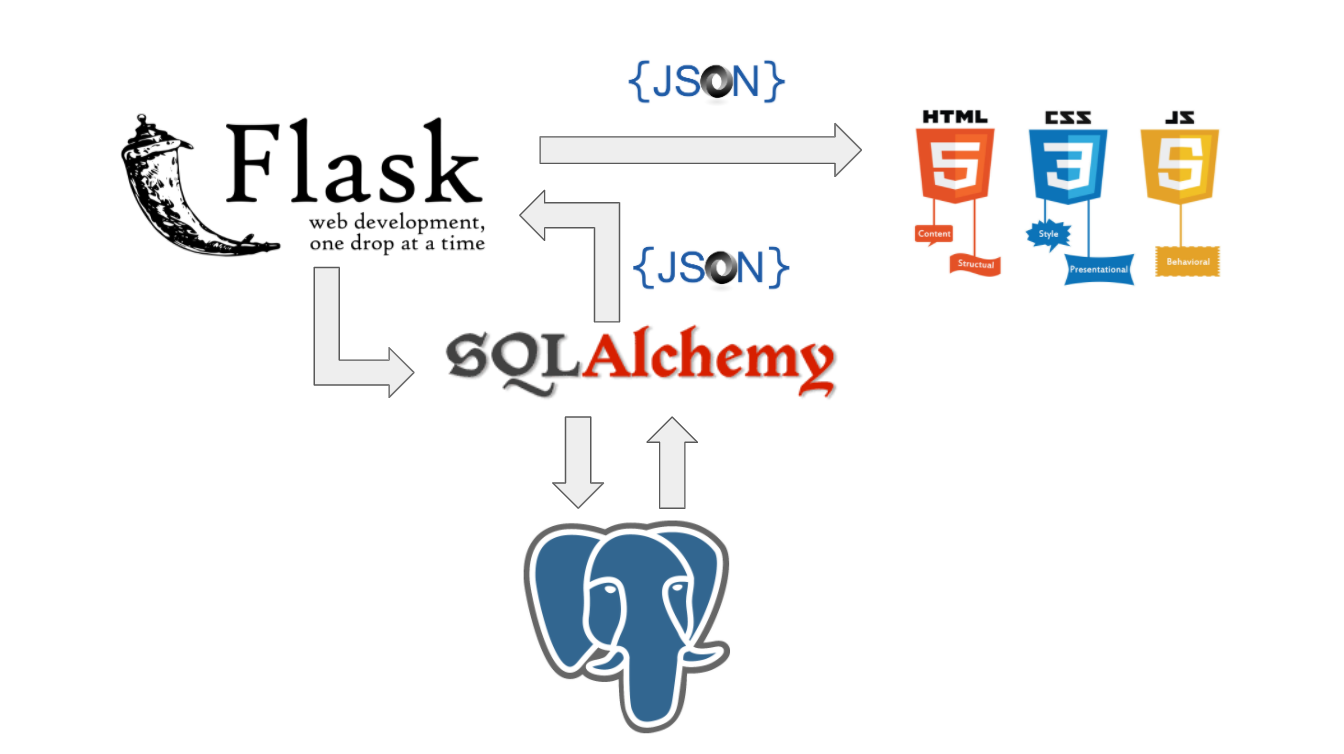
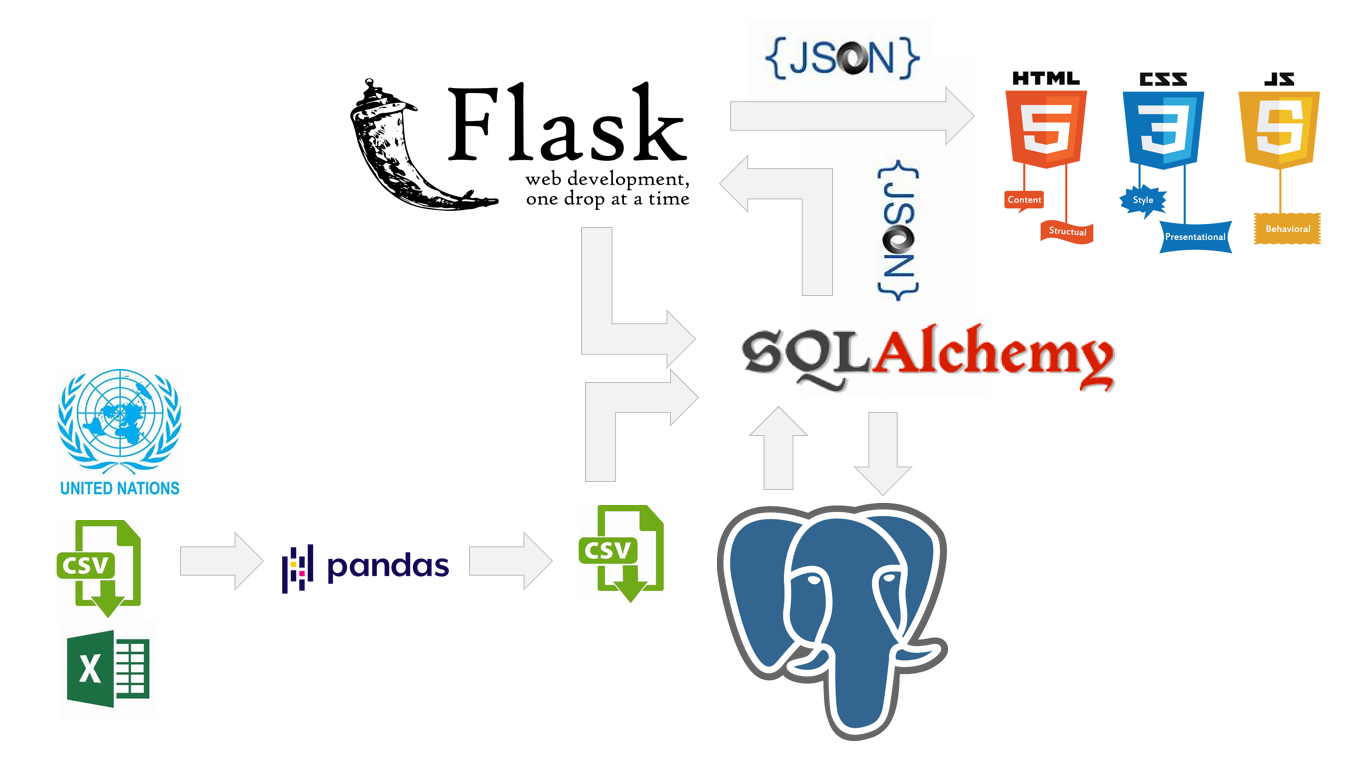
Update for new tech page

diff --git a/03_dashboard/templates/index2.html b/03_dashboard/templates/index2.html
@@ -63,32 +63,43 @@
     <div class="container pt-3 my-3">
         <div class="row">
             <div class="col-md-12">
-                <h2 class="header">Click to See Our Technologies</h2>
+            <h1 class="header">Click to see our technology and how we made it work</h1>
 
             </div>
         </div>
 
         <div class="row">
             <div class="col-md-12">
-                <img src="..//images/OurTech.png" class="img-fluid" usemap="#ourtech">
+                <img src="../images/OurTech.png" class="img-fluid" usemap="#ourtech">
                 <map name="ourtech">
-                    <area shape="rect" coords="496,258,119,108" id="Flask" onclick="changeImage(this,'Flask')">
-                    <area shape="rect" coords="625,58,791,104" id="JSON" onclick="changeImage(this,'JSON')">
-                    <area shape="rect" coords="632,244,798,290" id="JSON2" onclick="changeImage(this,'JSON')">
-                    <area shape="rect" coords="841,400,445,317" id="SQLAlchemy"
+                    <area shape="rect" coords="352,71,696,210" id="Flask" onclick="changeImage(this,'Flask')">
+                    <area shape="rect" coords="768,31,923,82" id="JSON" onclick="changeImage(this,'JSON')">
+                    <area shape="rect" coords="877,159,919,300" id="JSON2" onclick="changeImage(this,'JSON')">
+                    <area shape="rect" coords="741,327,1116,395" id="SQLAlchemy"
                         onclick="changeImage(this,'SQLAlchemy')">
-                    <area shape="rect" coords="1228,284,907,103" id="Html" onclick="changeImage(this,'HTML')">
-                    <area shape="rect" coords="516,524,736,737" id="Postgresql" onclick="changeImage(this,'PostGreSQL')">
-                    <area shape="poly" coords="541,138,834,135,836,121,860,148,836,173,832,165,543,166" id="Arrow1"
+                    <area shape="rect" coords="1004,68,1319,252" id="HTML" onclick="changeImage(this,'HTML')">
+                    <area shape="rect" coords="716,504,953,743" id="PostgreSQL" onclick="changeImage(this,'PostgreSQL')">
+                    <area shape="rect" coords="579,503,663,603" id="CSV1" onclick="changeImage(this,'CSV')">
+                    <area shape="rect" coords="57,520,143,616" id="CSV2" onclick="changeImage(this,'CSV')">
+                    <area shape="rect" coords="63,632,151,707" id="Excel" onclick="changeImage(this,'Excel')">
+                    <area shape="rect" coords="273,539,450,594" id="Pandas" onclick="changeImage(this,'Pandas')">
+                    <area shape="rect" coords="55,366,183,494" id="UNats" onclick="changeImage(this,'UNats')">
+                    <area shape="poly" coords="732,100,945,101,944,86,972,116,948,143,942,129,731,132" id="Arrow1"
                         onclick="changeImage(this, 'Arrow1')">
-                    <area shape="poly" coords="521,215,544,191,547,201,618,203,620,323,593,319,595,227,548,228,543,241" id="Arrow2"
+                    <area shape="poly" coords="720,184,747,155,750,169,831,169,831,294,800,294,801,199,749,201,746,211" id="Arrow2"
                         onclick="changeImage(this, 'Arrow2')">
-                    <area shape="poly" coords="646,443,674,416,698,443,687,444,684,507,658,508,660,442" id="Arrow3"
+                    <area shape="poly" coords="867,412,895,411,896,464,912,467,883,494,853,468,867,464" id="Arrow3"
                         onclick="changeImage(this, 'Arrow3')">
-                    <area shape="poly" coords="581,509,553,482,566,483,567,416,589,413,592,481,604,483" id="Arrow4"
+                    <area shape="poly" coords="777,407,805,435,795,432,792,490,762,490,765,435,750,436" id="Arrow4"
                         onclick="changeImage(this, 'Arrow4')">
-                    <area shape="poly" coords="411,373,391,398,388,384,314,384,315,268,339,268,340,359,385,359,389,346" id="Arrow5"
+                    <area shape="poly" coords="701,396,672,424,669,413,615,413,616,482,585,480,586,382,672,382,668,366" id="Arrow5"
                         onclick="changeImage(this, 'Arrow5')">
+                        <area shape="poly" coords="550,561,525,532,525,545,472,544,469,574,523,575,524,587" id="Arrow6"
+                        onclick="changeImage(this, 'Arrow6')">
+                        <area shape="poly" coords="262,563,236,532,236,543,183,549,178,575,234,576,234,588" id="Arrow7"
+                        onclick="changeImage(this, 'Arrow7')">
+                        <area shape="poly" coords="697,337,670,360,669,354,583,355,583,231,610,231,615,323,663,322,668,307" id="Arrow8"
+                        onclick="changeImage(this, 'Arrow8')">
                 </map>
             </div>
         </div>

diff --git a/03_dashboard/static/js/tech.js b/03_dashboard/static/js/tech.js
@@ -4,7 +4,7 @@ function changeImage(elmnt, value) {
     console.log(value);
     a = value;
     if (a === "Flask") {
-        swal("Flask is a minimalistic python framework for building web apps. It makes development faster by offering code for all sorts of processes like database interaction or file activity")
+        swal("Flask is a minimalistic python framework for building web apps (a light weight server). It makes development faster by offering code for all sorts of processes like database interaction or file activity")
     } else if (a === "JSON") {
         swal("JSON Stands for JavaScript Object Notation.  It is a lightweight format for storing and transporting data, often used when data is sent from a server to a web page");
     } else if (a === "SQLAlchemy") {
@@ -13,16 +13,30 @@ function changeImage(elmnt, value) {
         swal("HTML describes the content of a webpage and CSS is used to specify its style.  JavaScript it transforms the HTML body from being a beautifully dressed CSS styled mannequin into a real-life walking talking human being");
     } else if  (a === "PostgreSQL") {
         swal("PostgreSQL is a powerful, open source object-relational database system using SQL language combined with features that safely store and scale the most complicated data workloads");
+    } else if  (a === "CSV") {
+        swal("CSV files are Comma Separated Values file. All CSV files are plain text files ie containing numbers and letters only.  Being structured in a tabular form makes them easy to import which is great for website developers who usually deal exchanging large amounts of data between different applications");
+    } else if  (a === "Pandas") {
+        swal("Pandas is an open-source data analysis module for Python.  It is used in a wide range of fields including academia, finance, economics, statistics and analytics as it offers high-performance, data analysis tools and easy to use data structures");
+    } else if  (a === "Excel") {
+        swal("Excel is a spreadsheeting tool that features calculation, graphing tools, pivot tables, and a macro programming language called Visual Basic for Applications");
+    } else if  (a === "UNats") {
+        swal("The United Nations is not only our data source but also an international organization of countries set up in 1945, in succession to the League of Nations, to promote international peace, security, and cooperation");
     } else if  (a === "Arrow1") {
         swal("Arrow1 data");
     } else if  (a === "Arrow2") {
         swal("Arrow2 data");
     } else if  (a === "Arrow3") {
-        swal("Arrow3 dataPostgres by default");
+        swal("Arrow3");
     } else if  (a === "Arrow4") {
         swal("Arrow4 data");
-    } else {
+    } else if  (a === "Arrow5") {
         swal("Arrow5 data");
-        
+    } else if  (a === "Arrow6") {
+        swal("Arrow6 data");
+    } else if  (a === "Arrow7") {
+        swal("3 data sets were sourced from the United Nations population prospects 2019 report.  Our population and demographics data sets were CSV and our country/geography data an Excel spreadsheet");
+    } else {
+        swal("Arrow8 data");
+       
     }
 };
